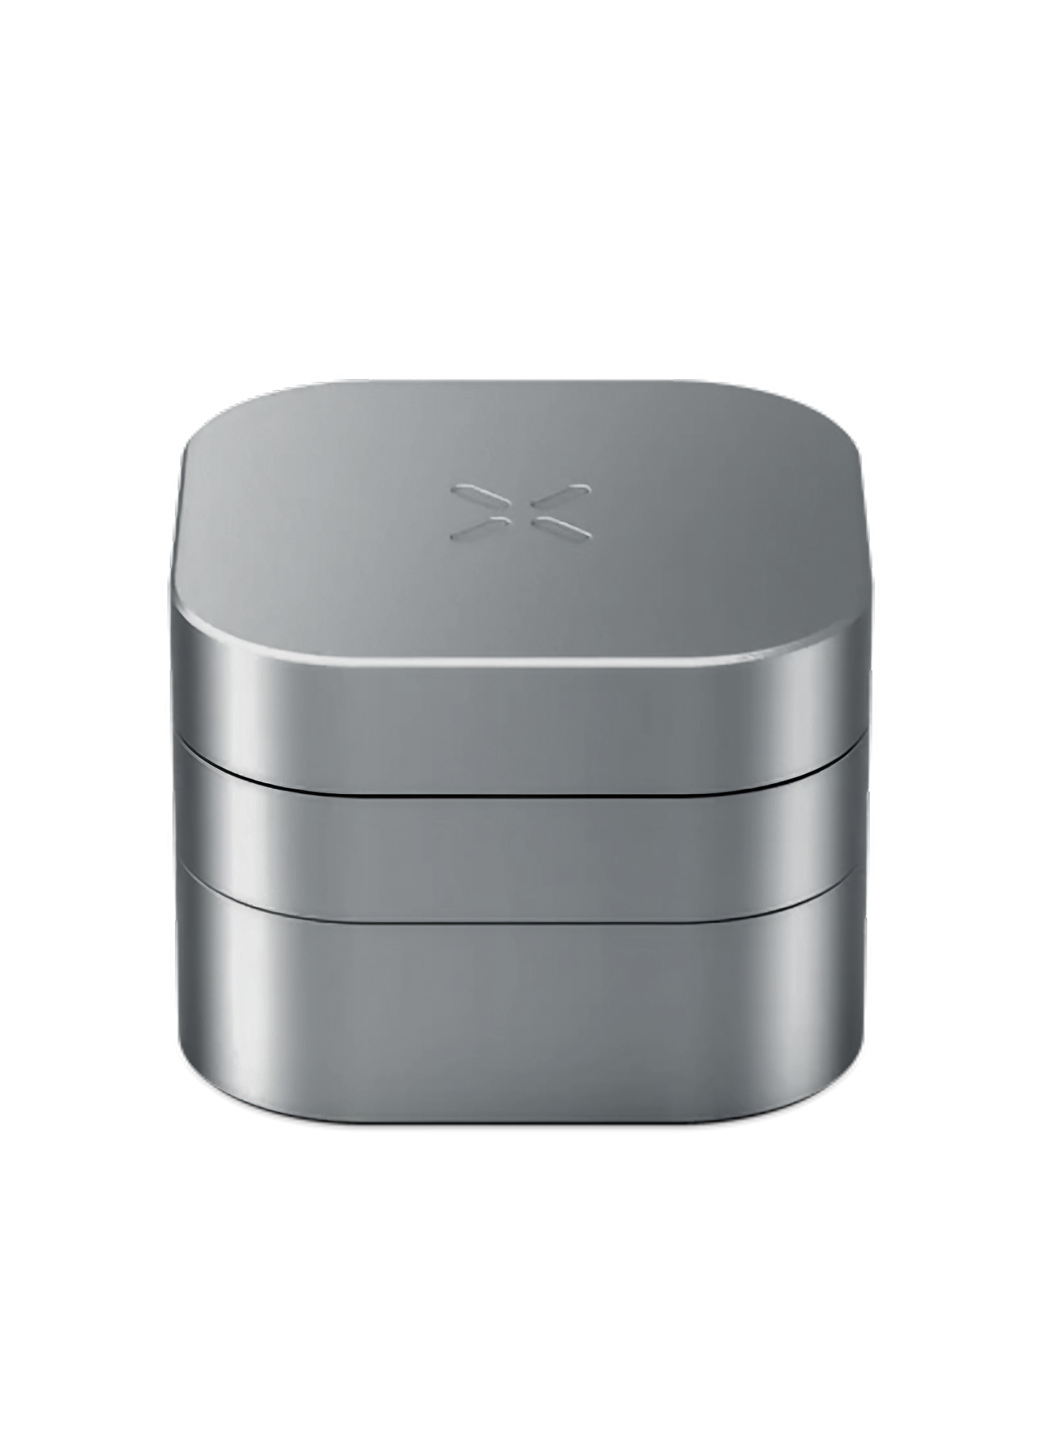
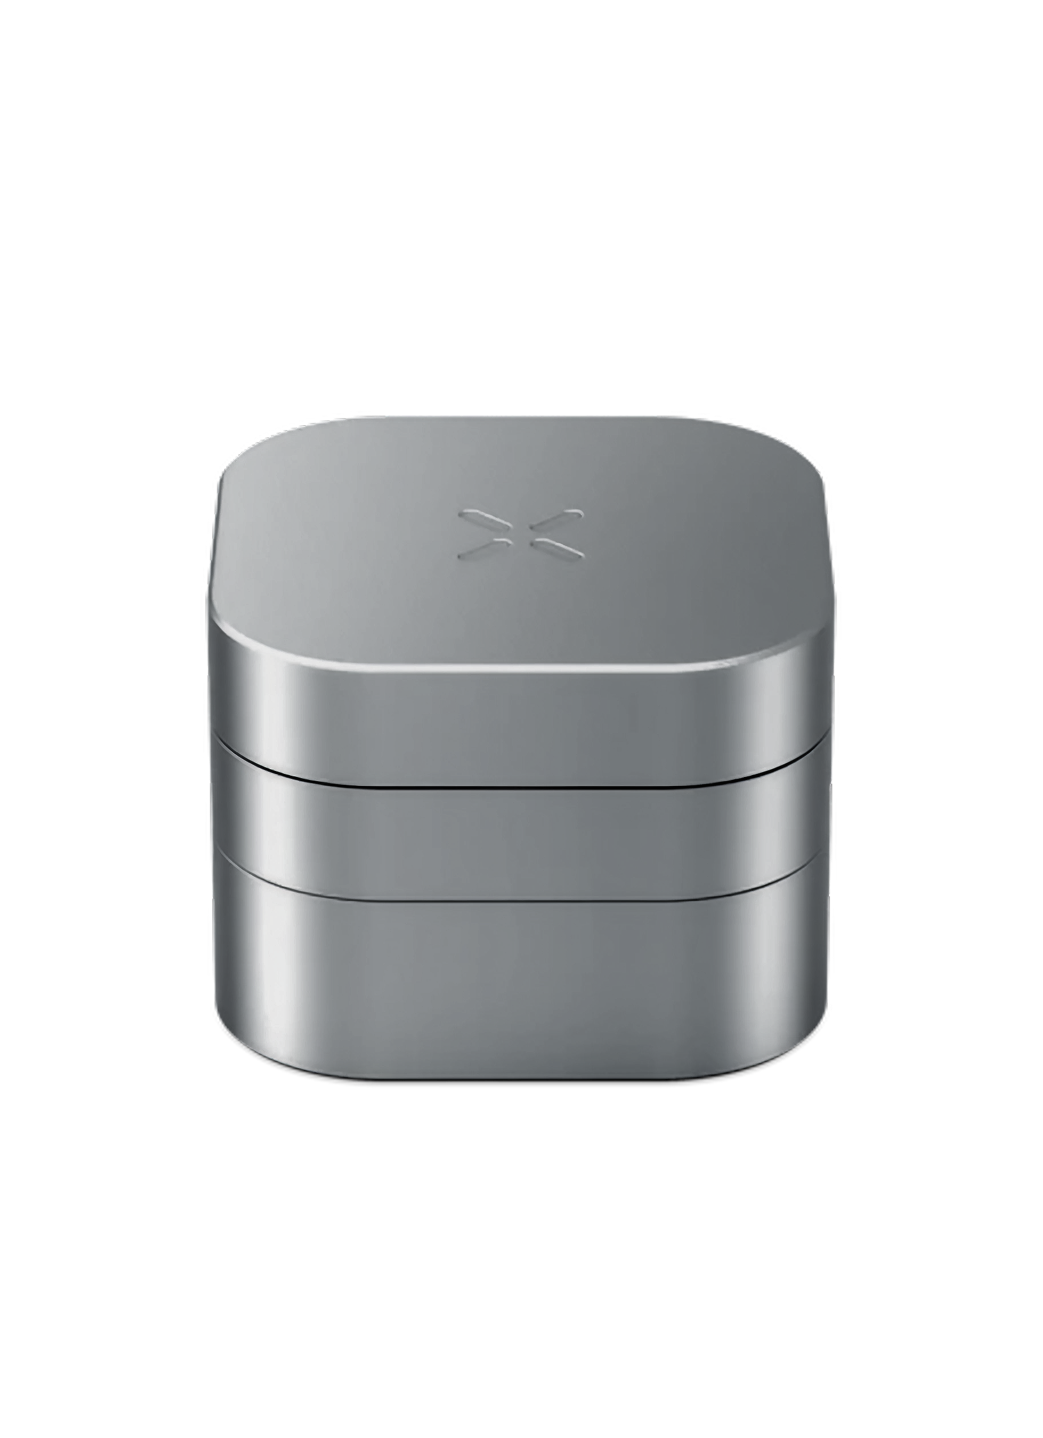
Party mode, Naman Nanda hover, catalogue fixes, Pax Grinder additions
- All pages: party mode toggle (SVG icon, footer right) — pastel hue-cycling
  background, persists via localStorage, auto-dismisses after 3s on index.html
- All pages: Naman Nanda nav hover animates through pastel hue cycle (1.5s,
  42% sat, 67% lightness, matching about page camera palette)
- Party toggle SVG also animates hue-cycle on hover and while active
- products.html: Pax Grinder added at positions 1, 11, 14, 21 (4 appearances)
- products.html: catalogue confidential cards show "Confidential" cursor, no link
- about.html: Naman Nanda hover only (no party mode)

Changed region(s): [[0.1534, 0.2448, 0.8591, 0.7955], [0.4295, 0.3366, 0.4909, 0.3672], [0.5216, 0.3366, 0.5523, 0.3672]]

diff --git a/products.html b/products.html
@@ -36,6 +36,17 @@ body {
   font-family: 'ABCDiatype', Arial, sans-serif;
 }
 
+/* Party mode */
+@keyframes party-bg  { 0% { background-color: hsl(0,55%,82%); } 100% { background-color: hsl(360,55%,82%); } }
+@keyframes hue-cycle { 0% { color: hsl(0,42%,67%); } 44% { color: hsl(158,42%,67%); } 55% { color: hsl(222,42%,67%); } 100% { color: hsl(360,42%,67%); } }
+#party-bg { position: fixed; inset: 0; z-index: 1; pointer-events: none; opacity: 0; transition: opacity 0.6s; }
+body.party #party-bg { opacity: 1; animation: party-bg 4s linear infinite; }
+body.party #clip, body.party #canvas, body.party #catalogue { background: transparent !important; }
+#nav-center:hover { animation: hue-cycle 1.5s linear infinite; opacity: 1 !important; }
+#party-toggle { background: none; border: none; padding: 0; cursor: pointer; color: rgba(0,0,0,0.25); position: absolute; right: 10px; top: 50%; transform: translateY(-50%); line-height: 0; }
+#party-toggle:hover { animation: hue-cycle 1.5s linear infinite; }
+body.party #party-toggle { color: rgba(0,0,0,0.5); animation: hue-cycle 1.5s linear infinite; }
+
 /* Frame — all 4 strips always fixed */
 #bl { position: fixed; top: 0; left: 0; bottom: 0; width: 15px; background: #D9D9D9; z-index: 950; pointer-events: none; }
 #br { position: fixed; top: 0; right: 0; bottom: 0; width: 15px; background: #D9D9D9; z-index: 950; pointer-events: none; }
@@ -472,6 +483,7 @@ body.link-cursor,  body.link-cursor *  { cursor: pointer !important; }
     <div id="mm-inner"></div>
   </div>
 </div>
+<div id="party-bg"></div>
 <div id="mobile-layout"></div>
 <div id="footer">
   <div id="view-toggle">
@@ -479,6 +491,7 @@ body.link-cursor,  body.link-cursor *  { cursor: pointer !important; }
     <span class="vt-label"        id="vt-project">Project</span>
   </div>
   © 2026 All Rights Reserved
+  <button id="party-toggle" title="Party Mode"><svg width="27" height="16" viewBox="0 0 51 30" fill="none" xmlns="http://www.w3.org/2000/svg"><path fill-rule="evenodd" clip-rule="evenodd" d="M39.0565 20H38.3481C39.4399 18.3361 39.9873 16.6694 39.9873 15C39.9873 14.3472 39.9082 13.7 39.7502 13.0583C39.6272 12.5389 39.4516 12.0389 39.2292 11.5611C39.0857 11.25 38.793 10.7278 38.3452 10H39.0535C39.7414 10.8694 40.2478 11.7444 40.5785 12.6222C40.8595 13.3778 41 14.1694 41 14.9944C41 15.9306 40.8097 16.8361 40.4322 17.7111C40.0546 18.5861 39.595 19.3472 39.0535 20H39.0565ZM34.2825 12.4611C34.6835 12.4611 35.0787 12.5611 35.4679 12.7583C35.8572 12.9556 36.1558 13.2389 36.3724 13.6056C36.589 13.9722 36.6973 14.3556 36.6973 14.75C36.6973 15.3861 36.4602 15.925 35.989 16.3722C35.5177 16.8194 34.9499 17.0444 34.2825 17.0444C33.6151 17.0444 33.0444 16.8194 32.5731 16.3722C32.1019 15.925 31.8648 15.3833 31.8648 14.75C31.8648 14.35 31.9731 13.9694 32.1897 13.6028C32.4063 13.2361 32.7078 12.9556 33.0941 12.7583C33.4805 12.5611 33.8786 12.4611 34.2825 12.4611ZM29.491 12.8306L29.2393 11.4056V10.1306H30.3632V11.4056L30.0998 12.8306H29.491ZM22.0183 14.9889H22.6886C22.6886 15.9667 23.1335 16.7 24.0262 17.1833C24.4712 17.4306 24.919 17.5528 25.3639 17.5528C25.8088 17.5528 26.2566 17.4306 26.7015 17.1833C27.5972 16.6944 28.045 15.9611 28.045 14.9889H28.7153C28.7153 16.2111 28.1563 17.125 27.0381 17.7361C26.4791 18.0417 25.923 18.1944 25.3668 18.1944C24.8107 18.1944 24.2516 18.0417 23.6955 17.7361C22.5803 17.125 22.0242 16.2111 22.0242 14.9889H22.0183ZM20.587 12.8306L20.3353 11.4056V10.1306H21.4593V11.4056L21.1958 12.8306H20.587ZM16.4541 12.4611C16.8551 12.4611 17.2502 12.5611 17.6395 12.7583C18.0259 12.9556 18.3274 13.2389 18.544 13.6056C18.7606 13.9722 18.8688 14.3556 18.8688 14.75C18.8688 15.3861 18.6318 15.925 18.1605 16.3722C17.6893 16.8194 17.1214 17.0444 16.4541 17.0444C15.7867 17.0444 15.2159 16.8194 14.7447 16.3722C14.2734 15.925 14.0364 15.3833 14.0364 14.75C14.0364 14.35 14.1447 13.9694 14.3612 13.6028C14.5778 13.2361 14.8793 12.9556 15.2657 12.7583C15.6521 12.5611 16.0501 12.4611 16.4541 12.4611ZM11.9465 20C11.402 19.3472 10.9425 18.5861 10.5649 17.7111C10.1873 16.8361 10 15.9306 10 14.9944C10 14.1694 10.1405 13.3778 10.4215 12.6222C10.7522 11.7444 11.2586 10.8694 11.9465 10H12.6548C12.2128 10.7222 11.9201 11.2361 11.7767 11.5444C11.5542 12.0222 11.3786 12.5222 11.2498 13.0417C11.0918 13.6917 11.0127 14.3417 11.0127 14.9972C11.0127 16.6667 11.5601 18.3333 12.6519 19.9972H11.9435L11.9465 20Z" fill="currentColor"/></svg></button>
 </div>
 <div id="cursor-wrap">
   <svg id="cursor-svg" width="28" height="28" viewBox="0 0 30 30" fill="none" xmlns="http://www.w3.org/2000/svg">
@@ -499,7 +512,7 @@ const COLS=5, ROWS=5, GAP=50, IMG_RATIO=1.341, META_H=20;
 // Full 25-card explicit list — 5 confidential images interspersed, no adjacent duplicates
 const projects = [
   {name:'Wire Skimmer',          year:'2023', client:'Made In',          img:'./images/product-1.png'},
-  {name:'Basket Strainer',       year:'2023', client:'Made In',          img:'./images/product-2.png'},
+  {name:'Pax Grinder',           year:'2023', client:'Pax Technologies', img:'./images/product-9.png'},
   {name:'Balloon Whisk',         year:'2023', client:'Made In',          img:'./images/product-4.png'},
   {name:'Confidential',          year:'2023', client:'Loftie',           img:'./images/Product-Confidential-1.png'},
   {name:'Storage Tin',           year:'2023', client:'Pax Technologies', img:'./images/product-5.png'},
@@ -509,17 +522,17 @@ const projects = [
   {name:'Confidential',          year:'2023', client:'Amazon',           img:'./images/Product-Confidential-2.png'},
   {name:'Portable Speaker',      year:'2022', client:'Pax Technologies', img:'./images/product-8.png'},
   {name:'Wire Skimmer',          year:'2023', client:'Made In',          img:'./images/product-1.png'},
-  {name:'Balloon Whisk',         year:'2023', client:'Made In',          img:'./images/product-4.png'},
+  {name:'Pax Grinder',           year:'2023', client:'Pax Technologies', img:'./images/product-9.png'},
   {name:'Basket Strainer',       year:'2023', client:'Made In',          img:'./images/product-2.png'},
   {name:'Confidential',          year:'2023', client:'Curology',         img:'./images/Product-Confidential-3.png'},
-  {name:'Silicone Tongs',        year:'2023', client:'Made In',          img:'./images/product-7.png'},
+  {name:'Pax Grinder',           year:'2023', client:'Pax Technologies', img:'./images/product-9.png'},
   {name:'Storage Tin',           year:'2023', client:'Pax Technologies', img:'./images/product-5.png'},
   {name:'Filtered Showerhead',   year:'2023', client:'Canopy',           img:'./images/product-6.png'},
   {name:'Grip Spatula',          year:'2023', client:'Pax Technologies', img:'./images/product-3.png'},
   {name:'Confidential',          year:'2023', client:'Canopy',           img:'./images/Product-Confidential-4.png'},
   {name:'Portable Speaker',      year:'2022', client:'Pax Technologies', img:'./images/product-8.png'},
   {name:'Basket Strainer',       year:'2023', client:'Made In',          img:'./images/product-2.png'},
-  {name:'Wire Skimmer',          year:'2023', client:'Made In',          img:'./images/product-1.png'},
+  {name:'Pax Grinder',           year:'2023', client:'Pax Technologies', img:'./images/product-9.png'},
   {name:'Balloon Whisk',         year:'2023', client:'Made In',          img:'./images/product-4.png'},
   {name:'Confidential',          year:'2023', client:'',                 img:'./images/Product-Confidential-5.png'},
   {name:'Silicone Tongs',        year:'2023', client:'Made In',          img:'./images/product-7.png'},
@@ -711,7 +724,11 @@ function buildCatalogue() {
   projects.forEach(p => {
     const a = document.createElement('a');
     a.className = 'cat-card';
-    a.href = (p.client && p.client.includes('Pax')) ? 'pax-project.html' : 'flaus-project.html';
+    const isConfidential = p.name === 'Confidential';
+    if (!isConfidential) {
+      a.href = (p.client && p.client.includes('Pax')) ? 'pax-project.html' : 'flaus-project.html';
+    }
+    if (isConfidential) a.dataset.confidential = '1';
 
     const imgDiv = document.createElement('div');
     imgDiv.className = 'cat-img';
@@ -832,6 +849,8 @@ document.addEventListener('mousemove', e => {
       catCursor.style.display  = 'none';
       document.body.style.cursor = 'default';
     } else {
+      const card = e.target.closest('.cat-card');
+      catCursor.textContent = card && card.dataset.confidential ? 'Confidential' : 'View';
       catCursor.style.left = e.clientX + 'px';
       catCursor.style.top  = e.clientY + 'px';
       catCursor.style.display = 'block';
@@ -1145,6 +1164,14 @@ document.getElementById('vm-catalogue').addEventListener('click', () => { if (!c
 // ── Zoom shortcut click ──
 document.getElementById('zk-out').addEventListener('click', () => setViewMode('catalogue'));
 document.getElementById('zk-in').addEventListener('click',  () => setViewMode('gallery'));
+
+// ── Party mode ──
+(function() {
+  const KEY = 'naman-party';
+  function setParty(on) { document.body.classList.toggle('party', on); localStorage.setItem(KEY, on ? '1' : '0'); }
+  if (localStorage.getItem(KEY) === '1') document.body.classList.add('party');
+  document.getElementById('party-toggle').addEventListener('click', () => setParty(!document.body.classList.contains('party')));
+})();
 </script>
 </body>
 </html>

diff --git a/index.html b/index.html
@@ -45,14 +45,22 @@ body {
 #nav-center {
   position: absolute; left: 50%; transform: translateX(-50%);
   font-family: 'ABCDiatype', Arial, sans-serif; font-size: 12px; color: #1a1a1a;
-  pointer-events: none;
 }
+#nav-center:hover { animation: hue-cycle 1.5s linear infinite; }
 #footer {
   position: fixed; bottom: 0; left: 0; right: 0; height: 28px;
   display: flex; align-items: center; justify-content: center;
   background: #D9D9D9; z-index: 200; cursor: auto;
   font-family: 'ABCDiatype', Arial, sans-serif; font-size: 12px; color: #1a1a1a;
 }
+@keyframes party-bg  { 0% { background-color: hsl(0,55%,82%); } 100% { background-color: hsl(360,55%,82%); } }
+@keyframes hue-cycle { 0% { color: hsl(0,42%,67%); } 44% { color: hsl(158,42%,67%); } 55% { color: hsl(222,42%,67%); } 100% { color: hsl(360,42%,67%); } }
+#party-bg { position:fixed; inset:0; z-index:1; pointer-events:none; opacity:0; transition:opacity 0.6s; }
+body.party #party-bg { opacity:1; animation:party-bg 4s linear infinite; }
+body.party #clip { background:transparent !important; }
+#party-toggle { background:none; border:none; padding:0; cursor:pointer; color:rgba(0,0,0,0.25); position:absolute; right:10px; top:50%; transform:translateY(-50%); line-height:0; }
+#party-toggle:hover { animation:hue-cycle 1.5s linear infinite; }
+body.party #party-toggle { color:rgba(0,0,0,0.5); animation:hue-cycle 1.5s linear infinite; }
 
 /* ── Clip area ── */
 #clip {
@@ -118,7 +126,8 @@ body {
   <a href="about.html">About</a>
 </nav>
 
-<footer id="footer">© 2026 All Rights Reserved</footer>
+<div id="party-bg"></div>
+<footer id="footer">© 2026 All Rights Reserved<button id="party-toggle" title="Party Mode"><svg width="27" height="16" viewBox="0 0 51 30" fill="none" xmlns="http://www.w3.org/2000/svg"><path fill-rule="evenodd" clip-rule="evenodd" d="M39.0565 20H38.3481C39.4399 18.3361 39.9873 16.6694 39.9873 15C39.9873 14.3472 39.9082 13.7 39.7502 13.0583C39.6272 12.5389 39.4516 12.0389 39.2292 11.5611C39.0857 11.25 38.793 10.7278 38.3452 10H39.0535C39.7414 10.8694 40.2478 11.7444 40.5785 12.6222C40.8595 13.3778 41 14.1694 41 14.9944C41 15.9306 40.8097 16.8361 40.4322 17.7111C40.0546 18.5861 39.595 19.3472 39.0535 20H39.0565ZM34.2825 12.4611C34.6835 12.4611 35.0787 12.5611 35.4679 12.7583C35.8572 12.9556 36.1558 13.2389 36.3724 13.6056C36.589 13.9722 36.6973 14.3556 36.6973 14.75C36.6973 15.3861 36.4602 15.925 35.989 16.3722C35.5177 16.8194 34.9499 17.0444 34.2825 17.0444C33.6151 17.0444 33.0444 16.8194 32.5731 16.3722C32.1019 15.925 31.8648 15.3833 31.8648 14.75C31.8648 14.35 31.9731 13.9694 32.1897 13.6028C32.4063 13.2361 32.7078 12.9556 33.0941 12.7583C33.4805 12.5611 33.8786 12.4611 34.2825 12.4611ZM29.491 12.8306L29.2393 11.4056V10.1306H30.3632V11.4056L30.0998 12.8306H29.491ZM22.0183 14.9889H22.6886C22.6886 15.9667 23.1335 16.7 24.0262 17.1833C24.4712 17.4306 24.919 17.5528 25.3639 17.5528C25.8088 17.5528 26.2566 17.4306 26.7015 17.1833C27.5972 16.6944 28.045 15.9611 28.045 14.9889H28.7153C28.7153 16.2111 28.1563 17.125 27.0381 17.7361C26.4791 18.0417 25.923 18.1944 25.3668 18.1944C24.8107 18.1944 24.2516 18.0417 23.6955 17.7361C22.5803 17.125 22.0242 16.2111 22.0242 14.9889H22.0183ZM20.587 12.8306L20.3353 11.4056V10.1306H21.4593V11.4056L21.1958 12.8306H20.587ZM16.4541 12.4611C16.8551 12.4611 17.2502 12.5611 17.6395 12.7583C18.0259 12.9556 18.3274 13.2389 18.544 13.6056C18.7606 13.9722 18.8688 14.3556 18.8688 14.75C18.8688 15.3861 18.6318 15.925 18.1605 16.3722C17.6893 16.8194 17.1214 17.0444 16.4541 17.0444C15.7867 17.0444 15.2159 16.8194 14.7447 16.3722C14.2734 15.925 14.0364 15.3833 14.0364 14.75C14.0364 14.35 14.1447 13.9694 14.3612 13.6028C14.5778 13.2361 14.8793 12.9556 15.2657 12.7583C15.6521 12.5611 16.0501 12.4611 16.4541 12.4611ZM11.9465 20C11.402 19.3472 10.9425 18.5861 10.5649 17.7111C10.1873 16.8361 10 15.9306 10 14.9944C10 14.1694 10.1405 13.3778 10.4215 12.6222C10.7522 11.7444 11.2586 10.8694 11.9465 10H12.6548C12.2128 10.7222 11.9201 11.2361 11.7767 11.5444C11.5542 12.0222 11.3786 12.5222 11.2498 13.0417C11.0918 13.6917 11.0127 14.3417 11.0127 14.9972C11.0127 16.6667 11.5601 18.3333 12.6519 19.9972H11.9435L11.9465 20Z" fill="currentColor"/></svg></button></footer>
 
 <div id="clip">
   <div class="img-layer" id="layer-a"></div>
@@ -233,6 +242,21 @@ document.addEventListener('mousemove', (e) => {
     cursorEl.style.display = 'none';
   }
 });
+
+// ── Party mode (auto-dismisses after 3s on home) ──
+(function() {
+  const KEY = 'naman-party';
+  function setParty(on) { document.body.classList.toggle('party', on); localStorage.setItem(KEY, on ? '1' : '0'); }
+  if (localStorage.getItem(KEY) === '1') {
+    document.body.classList.add('party');
+    setTimeout(() => setParty(false), 3000);
+  }
+  document.getElementById('party-toggle').addEventListener('click', () => {
+    const on = !document.body.classList.contains('party');
+    setParty(on);
+    if (on) setTimeout(() => setParty(false), 3000);
+  });
+})();
 </script>
 
 </body>

diff --git a/flaus-project.html b/flaus-project.html
@@ -49,6 +49,15 @@ body {
   background:#D9D9D9; z-index:200;
   font-family:'ABCDiatype',Arial,sans-serif; font-size:12px; color:#1a1a1a;
 }
+@keyframes party-bg  { 0% { background-color: hsl(0,55%,82%); } 100% { background-color: hsl(360,55%,82%); } }
+@keyframes hue-cycle { 0% { color: hsl(0,42%,67%); } 44% { color: hsl(158,42%,67%); } 55% { color: hsl(222,42%,67%); } 100% { color: hsl(360,42%,67%); } }
+#party-bg { position:fixed; inset:0; z-index:1; pointer-events:none; opacity:0; transition:opacity 0.6s; }
+body.party #party-bg { opacity:1; animation:party-bg 4s linear infinite; }
+body.party #clip { background:transparent !important; }
+#nav-center:hover { animation:hue-cycle 1.5s linear infinite; opacity:1 !important; }
+#party-toggle { background:none; border:none; padding:0; cursor:pointer; color:rgba(0,0,0,0.25); position:absolute; right:10px; top:50%; transform:translateY(-50%); line-height:0; }
+#party-toggle:hover { animation:hue-cycle 1.5s linear infinite; }
+body.party #party-toggle { color:rgba(0,0,0,0.5); animation:hue-cycle 1.5s linear infinite; }
 
 /* ── Scroll viewport ── */
 #clip {
@@ -637,7 +646,8 @@ body {
   "></div>
 </div><!-- /#clip -->
 
-<div id="footer">© 2026 All Rights Reserved</div>
+<div id="party-bg"></div>
+<div id="footer">© 2026 All Rights Reserved<button id="party-toggle" title="Party Mode"><svg width="27" height="16" viewBox="0 0 51 30" fill="none" xmlns="http://www.w3.org/2000/svg"><path fill-rule="evenodd" clip-rule="evenodd" d="M39.0565 20H38.3481C39.4399 18.3361 39.9873 16.6694 39.9873 15C39.9873 14.3472 39.9082 13.7 39.7502 13.0583C39.6272 12.5389 39.4516 12.0389 39.2292 11.5611C39.0857 11.25 38.793 10.7278 38.3452 10H39.0535C39.7414 10.8694 40.2478 11.7444 40.5785 12.6222C40.8595 13.3778 41 14.1694 41 14.9944C41 15.9306 40.8097 16.8361 40.4322 17.7111C40.0546 18.5861 39.595 19.3472 39.0535 20H39.0565ZM34.2825 12.4611C34.6835 12.4611 35.0787 12.5611 35.4679 12.7583C35.8572 12.9556 36.1558 13.2389 36.3724 13.6056C36.589 13.9722 36.6973 14.3556 36.6973 14.75C36.6973 15.3861 36.4602 15.925 35.989 16.3722C35.5177 16.8194 34.9499 17.0444 34.2825 17.0444C33.6151 17.0444 33.0444 16.8194 32.5731 16.3722C32.1019 15.925 31.8648 15.3833 31.8648 14.75C31.8648 14.35 31.9731 13.9694 32.1897 13.6028C32.4063 13.2361 32.7078 12.9556 33.0941 12.7583C33.4805 12.5611 33.8786 12.4611 34.2825 12.4611ZM29.491 12.8306L29.2393 11.4056V10.1306H30.3632V11.4056L30.0998 12.8306H29.491ZM22.0183 14.9889H22.6886C22.6886 15.9667 23.1335 16.7 24.0262 17.1833C24.4712 17.4306 24.919 17.5528 25.3639 17.5528C25.8088 17.5528 26.2566 17.4306 26.7015 17.1833C27.5972 16.6944 28.045 15.9611 28.045 14.9889H28.7153C28.7153 16.2111 28.1563 17.125 27.0381 17.7361C26.4791 18.0417 25.923 18.1944 25.3668 18.1944C24.8107 18.1944 24.2516 18.0417 23.6955 17.7361C22.5803 17.125 22.0242 16.2111 22.0242 14.9889H22.0183ZM20.587 12.8306L20.3353 11.4056V10.1306H21.4593V11.4056L21.1958 12.8306H20.587ZM16.4541 12.4611C16.8551 12.4611 17.2502 12.5611 17.6395 12.7583C18.0259 12.9556 18.3274 13.2389 18.544 13.6056C18.7606 13.9722 18.8688 14.3556 18.8688 14.75C18.8688 15.3861 18.6318 15.925 18.1605 16.3722C17.6893 16.8194 17.1214 17.0444 16.4541 17.0444C15.7867 17.0444 15.2159 16.8194 14.7447 16.3722C14.2734 15.925 14.0364 15.3833 14.0364 14.75C14.0364 14.35 14.1447 13.9694 14.3612 13.6028C14.5778 13.2361 14.8793 12.9556 15.2657 12.7583C15.6521 12.5611 16.0501 12.4611 16.4541 12.4611ZM11.9465 20C11.402 19.3472 10.9425 18.5861 10.5649 17.7111C10.1873 16.8361 10 15.9306 10 14.9944C10 14.1694 10.1405 13.3778 10.4215 12.6222C10.7522 11.7444 11.2586 10.8694 11.9465 10H12.6548C12.2128 10.7222 11.9201 11.2361 11.7767 11.5444C11.5542 12.0222 11.3786 12.5222 11.2498 13.0417C11.0918 13.6917 11.0127 14.3417 11.0127 14.9972C11.0127 16.6667 11.5601 18.3333 12.6519 19.9972H11.9435L11.9465 20Z" fill="currentColor"/></svg></button></div>
 <div id="mobile-project"></div>
 
 <script>
@@ -1149,6 +1159,14 @@ window.GALLERY_IMAGES = [
 ];
 </script>
 <script src="./gallery.js"></script>
+<script>
+(function() {
+  const KEY = 'naman-party';
+  function setParty(on) { document.body.classList.toggle('party', on); localStorage.setItem(KEY, on ? '1' : '0'); }
+  if (localStorage.getItem(KEY) === '1') document.body.classList.add('party');
+  document.getElementById('party-toggle').addEventListener('click', () => setParty(!document.body.classList.contains('party')));
+})();
+</script>
 
 </body>
 </html>

diff --git a/pax-project.html b/pax-project.html
@@ -49,6 +49,15 @@ body {
   background:#D9D9D9; z-index:200;
   font-family:'ABCDiatype',Arial,sans-serif; font-size:12px; color:#1a1a1a;
 }
+@keyframes party-bg  { 0% { background-color: hsl(0,55%,82%); } 100% { background-color: hsl(360,55%,82%); } }
+@keyframes hue-cycle { 0% { color: hsl(0,42%,67%); } 44% { color: hsl(158,42%,67%); } 55% { color: hsl(222,42%,67%); } 100% { color: hsl(360,42%,67%); } }
+#party-bg { position:fixed; inset:0; z-index:1; pointer-events:none; opacity:0; transition:opacity 0.6s; }
+body.party #party-bg { opacity:1; animation:party-bg 4s linear infinite; }
+body.party #clip { background:transparent !important; }
+#nav-center:hover { animation:hue-cycle 1.5s linear infinite; opacity:1 !important; }
+#party-toggle { background:none; border:none; padding:0; cursor:pointer; color:rgba(0,0,0,0.25); position:absolute; right:10px; top:50%; transform:translateY(-50%); line-height:0; }
+#party-toggle:hover { animation:hue-cycle 1.5s linear infinite; }
+body.party #party-toggle { color:rgba(0,0,0,0.5); animation:hue-cycle 1.5s linear infinite; }
 
 /* ── Scroll viewport ── */
 #clip {
@@ -572,7 +581,8 @@ body {
   "></div>
 </div><!-- /#clip -->
 
-<div id="footer">© 2026 All Rights Reserved</div>
+<div id="party-bg"></div>
+<div id="footer">© 2026 All Rights Reserved<button id="party-toggle" title="Party Mode"><svg width="27" height="16" viewBox="0 0 51 30" fill="none" xmlns="http://www.w3.org/2000/svg"><path fill-rule="evenodd" clip-rule="evenodd" d="M39.0565 20H38.3481C39.4399 18.3361 39.9873 16.6694 39.9873 15C39.9873 14.3472 39.9082 13.7 39.7502 13.0583C39.6272 12.5389 39.4516 12.0389 39.2292 11.5611C39.0857 11.25 38.793 10.7278 38.3452 10H39.0535C39.7414 10.8694 40.2478 11.7444 40.5785 12.6222C40.8595 13.3778 41 14.1694 41 14.9944C41 15.9306 40.8097 16.8361 40.4322 17.7111C40.0546 18.5861 39.595 19.3472 39.0535 20H39.0565ZM34.2825 12.4611C34.6835 12.4611 35.0787 12.5611 35.4679 12.7583C35.8572 12.9556 36.1558 13.2389 36.3724 13.6056C36.589 13.9722 36.6973 14.3556 36.6973 14.75C36.6973 15.3861 36.4602 15.925 35.989 16.3722C35.5177 16.8194 34.9499 17.0444 34.2825 17.0444C33.6151 17.0444 33.0444 16.8194 32.5731 16.3722C32.1019 15.925 31.8648 15.3833 31.8648 14.75C31.8648 14.35 31.9731 13.9694 32.1897 13.6028C32.4063 13.2361 32.7078 12.9556 33.0941 12.7583C33.4805 12.5611 33.8786 12.4611 34.2825 12.4611ZM29.491 12.8306L29.2393 11.4056V10.1306H30.3632V11.4056L30.0998 12.8306H29.491ZM22.0183 14.9889H22.6886C22.6886 15.9667 23.1335 16.7 24.0262 17.1833C24.4712 17.4306 24.919 17.5528 25.3639 17.5528C25.8088 17.5528 26.2566 17.4306 26.7015 17.1833C27.5972 16.6944 28.045 15.9611 28.045 14.9889H28.7153C28.7153 16.2111 28.1563 17.125 27.0381 17.7361C26.4791 18.0417 25.923 18.1944 25.3668 18.1944C24.8107 18.1944 24.2516 18.0417 23.6955 17.7361C22.5803 17.125 22.0242 16.2111 22.0242 14.9889H22.0183ZM20.587 12.8306L20.3353 11.4056V10.1306H21.4593V11.4056L21.1958 12.8306H20.587ZM16.4541 12.4611C16.8551 12.4611 17.2502 12.5611 17.6395 12.7583C18.0259 12.9556 18.3274 13.2389 18.544 13.6056C18.7606 13.9722 18.8688 14.3556 18.8688 14.75C18.8688 15.3861 18.6318 15.925 18.1605 16.3722C17.6893 16.8194 17.1214 17.0444 16.4541 17.0444C15.7867 17.0444 15.2159 16.8194 14.7447 16.3722C14.2734 15.925 14.0364 15.3833 14.0364 14.75C14.0364 14.35 14.1447 13.9694 14.3612 13.6028C14.5778 13.2361 14.8793 12.9556 15.2657 12.7583C15.6521 12.5611 16.0501 12.4611 16.4541 12.4611ZM11.9465 20C11.402 19.3472 10.9425 18.5861 10.5649 17.7111C10.1873 16.8361 10 15.9306 10 14.9944C10 14.1694 10.1405 13.3778 10.4215 12.6222C10.7522 11.7444 11.2586 10.8694 11.9465 10H12.6548C12.2128 10.7222 11.9201 11.2361 11.7767 11.5444C11.5542 12.0222 11.3786 12.5222 11.2498 13.0417C11.0918 13.6917 11.0127 14.3417 11.0127 14.9972C11.0127 16.6667 11.5601 18.3333 12.6519 19.9972H11.9435L11.9465 20Z" fill="currentColor"/></svg></button></div>
 <div id="mobile-project"></div>
 
 <script>
@@ -996,6 +1006,14 @@ window.GALLERY_IMAGES = [
 ];
 </script>
 <script src="./gallery.js"></script>
+<script>
+(function() {
+  const KEY = 'naman-party';
+  function setParty(on) { document.body.classList.toggle('party', on); localStorage.setItem(KEY, on ? '1' : '0'); }
+  if (localStorage.getItem(KEY) === '1') document.body.classList.add('party');
+  document.getElementById('party-toggle').addEventListener('click', () => setParty(!document.body.classList.contains('party')));
+})();
+</script>
 
 </body>
 </html>

diff --git a/about.html b/about.html
@@ -40,6 +40,8 @@ body {
   position: absolute; left: 50%; transform: translateX(-50%);
   font-family: 'ABCDiatype', Arial, sans-serif; font-size: 12px; color: #1a1a1a;
 }
+@keyframes hue-cycle { 0% { color: hsl(0,42%,67%); } 44% { color: hsl(158,42%,67%); } 55% { color: hsl(222,42%,67%); } 100% { color: hsl(360,42%,67%); } }
+#nav-center:hover { animation: hue-cycle 1.5s linear infinite; opacity: 1 !important; }
 
 #footer {
   position: fixed; bottom: 0; left: 0; right: 0; height: 28px;